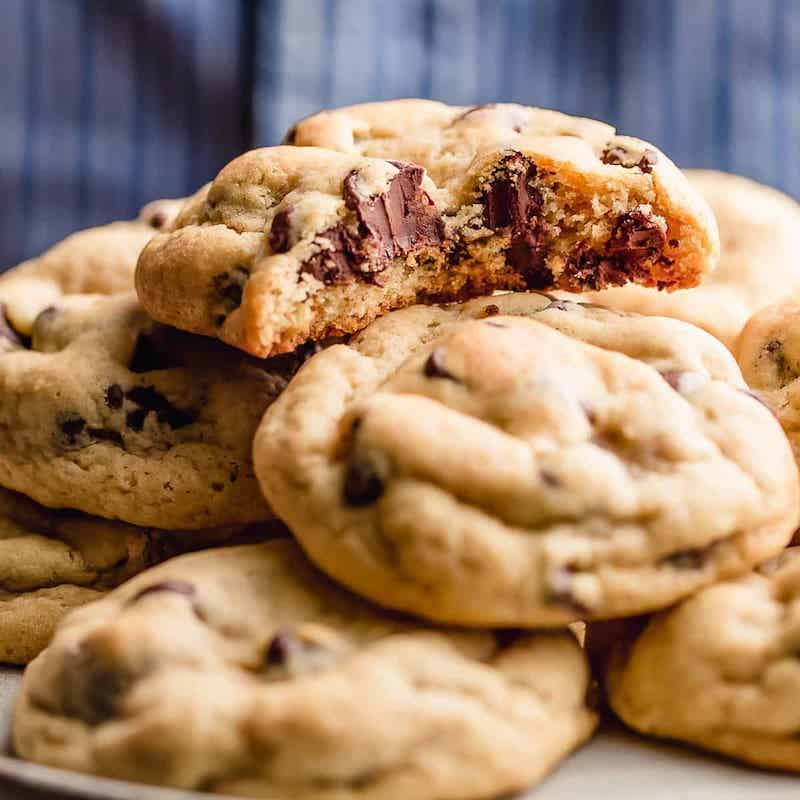
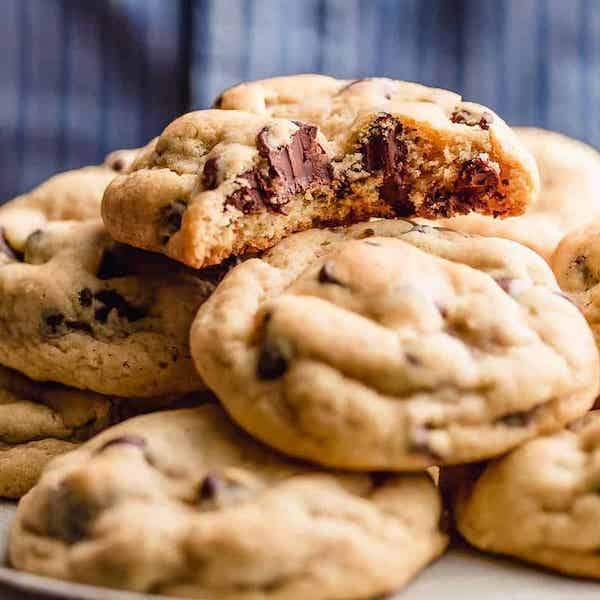
Resize images

diff --git a/recipes/berry-pasties.html b/recipes/berry-pasties.html
@@ -1,0 +1,12 @@
+<!DOCTYPE html>
+<html lang="en">
+    <head>
+        <meta charset="UTF-8">
+        <title>Berry Pasties</title>
+    </head>
+    <body>
+        <h1>Blueberry Pasties</h1>
+        <img src="../images/blueberry_pastry_.jpg" alt="Blueberry Pasties">
+    </body>
+
+</html>
